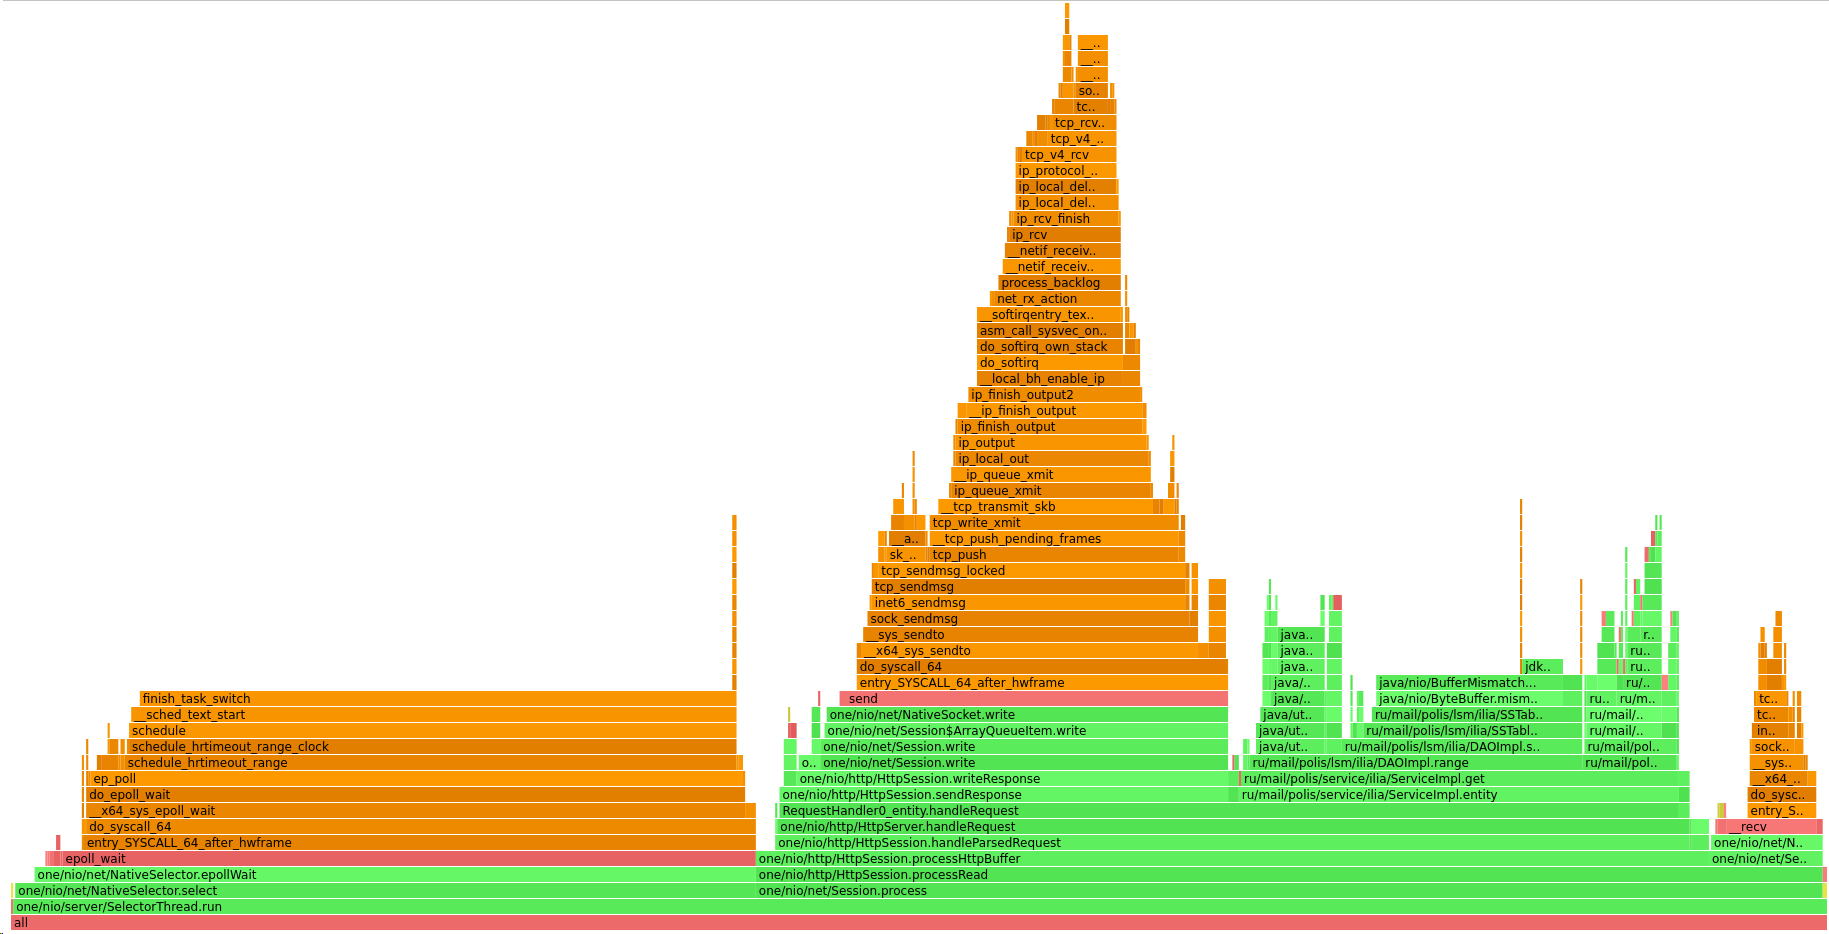
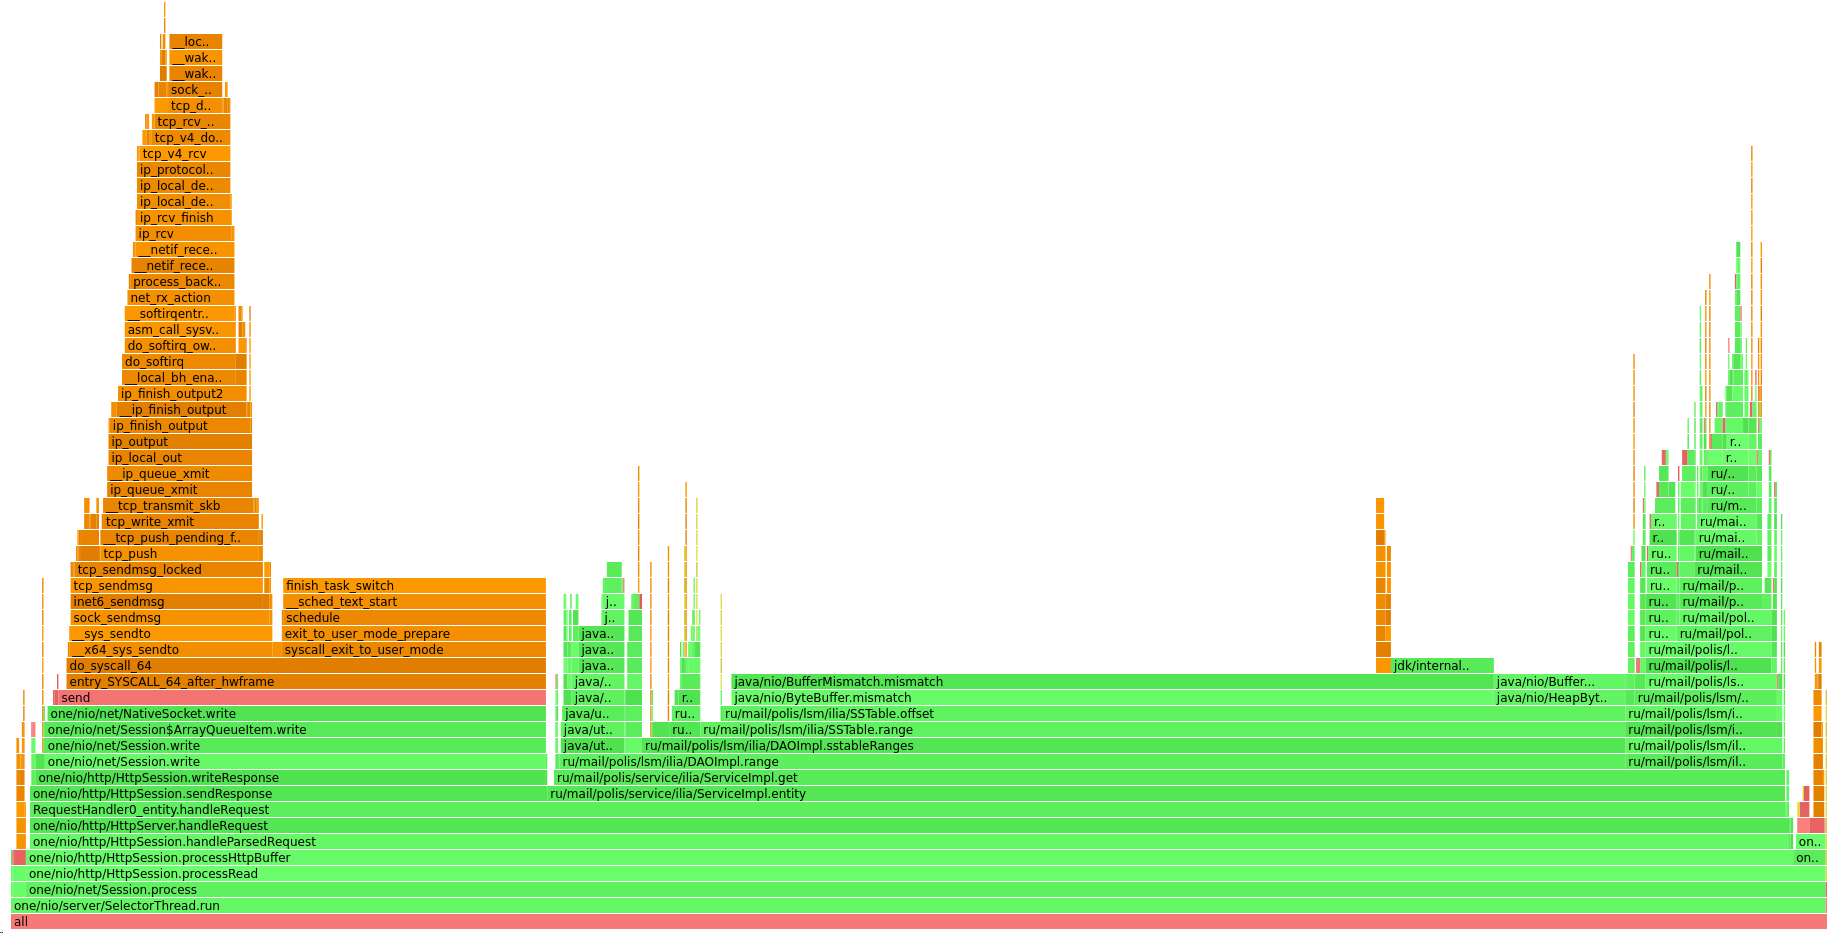
Report done and some fix

Changed region(s): [[0.0, 0.0, 1.0, 0.9946]]

diff --git a/src/main/java/ru/mail/polis/lsm/ilia/SSTable.java b/src/main/java/ru/mail/polis/lsm/ilia/SSTable.java
@@ -15,20 +15,12 @@ import java.nio.file.Files;
 import java.nio.file.Path;
 import java.nio.file.StandardCopyOption;
 import java.nio.file.StandardOpenOption;
-import java.util.ArrayList;
-import java.util.Iterator;
-import java.util.List;
-import java.util.NoSuchElementException;
-import java.util.Objects;
+import java.util.*;
 
 final class SSTable implements Closeable {
 
-    private static final Method CLEAN;
     static final String SSTABLE_FILE_PREFIX = "file_";
-
-    private final MappedByteBuffer mmap;
-    private final MappedByteBuffer idx;
-    private final Path fileName;
+    private static final Method CLEAN;
 
     static {
         try {
@@ -40,16 +32,16 @@ final class SSTable implements Closeable {
         }
     }
 
+    private final MappedByteBuffer mmap;
+    private final MappedByteBuffer idx;
+    private final Path fileName;
+
     private SSTable(Path file) throws IOException {
         Path indexPath = getIndexFile(file);
         fileName = file;
 
         mmap = open(file);
         idx = open(indexPath);
-    }
-
-    Path getPath() {
-        return fileName;
     }
 
     static int sizeOf(Record record) {
@@ -113,30 +105,6 @@ final class SSTable implements Closeable {
         return new SSTable(file);
     }
 
-    @Override
-    public void close() throws IOException {
-        IOException exception = null;
-        try {
-            free(mmap);
-        } catch (Throwable t) {
-            exception = new IOException(t);
-        }
-
-        try {
-            free(idx);
-        } catch (Throwable t) {
-            if (exception == null) {
-                exception = new IOException(t);
-            } else {
-                exception.addSuppressed(t);
-            }
-        }
-
-        if (exception != null) {
-            throw exception;
-        }
-    }
-
     private static void rename(Path indexFile, Path tmpIndexName) throws IOException {
         Files.deleteIfExists(indexFile);
         Files.move(tmpIndexName, indexFile, StandardCopyOption.ATOMIC_MOVE);
@@ -185,6 +153,69 @@ final class SSTable implements Closeable {
                 FileChannel channel = FileChannel.open(name, StandardOpenOption.READ)
         ) {
             return channel.map(FileChannel.MapMode.READ_ONLY, 0, channel.size());
+        }
+    }
+
+    private static Iterator<Record> range(ByteBuffer buffer, int fromOffset, int toOffset) {
+        buffer.position(fromOffset);
+
+        return new Iterator<>() {
+            @Override
+            public boolean hasNext() {
+                return buffer.position() < toOffset;
+            }
+
+            @Override
+            public Record next() {
+                if (!hasNext()) {
+                    throw new NoSuchElementException("Limit is reached");
+                }
+
+                int keySize = buffer.getInt();
+                ByteBuffer key = read(keySize);
+
+                int valueSize = buffer.getInt();
+                if (valueSize == -1) {
+                    return Record.tombstone(key);
+                }
+                ByteBuffer value = read(valueSize);
+
+                return Record.of(key, value);
+            }
+
+            private ByteBuffer read(int size) {
+                ByteBuffer result = buffer.slice().limit(size);
+                buffer.position(buffer.position() + size);
+                return result;
+            }
+        };
+    }
+
+    Path getPath() {
+        return fileName;
+    }
+
+    @Override
+    public void close() throws IOException {
+        IOException exception = null;
+        try {
+            free(mmap);
+        } catch (Throwable t) {
+            exception = new IOException(t);
+        }
+
+        try {
+            free(idx);
+        } catch (Throwable t) {
+            if (exception == null) {
+                exception = new IOException(t);
+            } else {
+                exception.addSuppressed(t);
+            }
+        }
+
+        if (exception != null) {
+            throw exception;
         }
     }
 
@@ -244,40 +275,5 @@ final class SSTable implements Closeable {
                 fromOffset == -1 ? maxSize : fromOffset,
                 toOffset == -1 ? maxSize : toOffset
         );
-    }
-
-    private static Iterator<Record> range(ByteBuffer buffer, int fromOffset, int toOffset) {
-        buffer.position(fromOffset);
-
-        return new Iterator<>() {
-            @Override
-            public boolean hasNext() {
-                return buffer.position() < toOffset;
-            }
-
-            @Override
-            public Record next() {
-                if (!hasNext()) {
-                    throw new NoSuchElementException("Limit is reached");
-                }
-
-                int keySize = buffer.getInt();
-                ByteBuffer key = read(keySize);
-
-                int valueSize = buffer.getInt();
-                if (valueSize == -1) {
-                    return Record.tombstone(key);
-                }
-                ByteBuffer value = read(valueSize);
-
-                return Record.of(key, value);
-            }
-
-            private ByteBuffer read(int size) {
-                ByteBuffer result = buffer.slice().limit(size);
-                buffer.position(buffer.position() + size);
-                return result;
-            }
-        };
     }
 }

diff --git a/src/main/java/ru/mail/polis/lsm/ilia/DAOImpl.java b/src/main/java/ru/mail/polis/lsm/ilia/DAOImpl.java
@@ -23,12 +23,9 @@ public class DAOImpl implements DAO {
     private static final String FILE_NAME_COMPACT = SSTable.SSTABLE_FILE_PREFIX + COMPACT;
     private static final String FILE_NAME_COMPACT_RESULT = SSTable.SSTABLE_FILE_PREFIX + "0";
     private static final String IDX = ".idx";
-
-    private SortedMap<ByteBuffer, Record> memoryStorage = new ConcurrentSkipListMap<>();
     private final ConcurrentLinkedDeque<SSTable> tables = new ConcurrentLinkedDeque<>();
-
     private final DAOConfig config;
-
+    private NavigableMap<ByteBuffer, Record> memoryStorage = new ConcurrentSkipListMap<>();
     private int nextSStableIndex;
     private int memorySize;
 
@@ -86,7 +83,7 @@ public class DAOImpl implements DAO {
                     }
                 }
 
-                memoryStorage.clear();
+                memoryStorage = new ConcurrentSkipListMap<>();
                 Files.move(
                         dir.resolve(FILE_NAME_COMPACT),
                         dir.resolve(FILE_NAME_COMPACT_RESULT),

diff --git a/report/REPORT.md b/report/REPORT.md
@@ -69,29 +69,69 @@ wrk2 -c1 -t1 -d1m -R20000 -L -s wrk/get.lua http://localhost:8080/
 
 ### Профилирование для PUT-запросов:
 
+#### CPU
+
 Для начала профилируем CPU для PUT-запросов. Для этого воспользуемся следующей командой:
+
 ```
 ./profiler.sh -d 20 -f cpu_put.html 33769
 ```
+
 Т.е. мы запускаем профилировку длительностью 20 секунд и результаты просим сохранить в файл cpu_put.html.
 
 ![Рис.5. Профилирование CPU для PUT-запросов](put_cpu_result.png)
 
-Как можно увидеть, 40.78% занимает NativeSelector и его метод select().
-Кроме этого 50.24% занимает обработка Http запроса (HttpServer.handleRequest).
+Как можно увидеть, 27.68% занимает NativeSelector и его метод select(). Кроме этого 61.08% занимает обработка Http
+запроса (HttpServer.handleRequest). При этом 12.07% уходит на отправку ответов (HttpSession.SendResponse), а 43.91%
+уходит на запись (DAOImpl.flush). Помимо этого 5% уходит на работу сборщика мусора
 
+#### MEM
+
+Теперь профилируем MEM для PUT-запросов. Для этого воспользуемся следующей командой:
+
+```
+/profiler.sh -d 20 -e alloc -f mem_put.html 33769
+```
+
+Смысл команды такой же как и при профилировки CPU, но тут необходимо указать -e alloc, т.к. мы хотим посмотреть MEM (по
+умолчанию всегда выводится CPU) и, соответственно, поменять название выходного файла
+
+![Рис.6. Профилирование MEM для PUT-запросов](put_mem_result.png)
+
+По полученным результатам можно сказать, что 52.92% уходят на обработку запроса(HttpSession.handleParsedRequest), 32.04%
+из которых уходят на запись в базу(ServiceImpl.put) и 11% на отправку ответа(HttpSession.sendResponse). Также 18.21%
+уходит на парсинг самого запроса(HttpSession.ParseRequest) и почти 21% на читку Utf8(Utf8.read)
 
 ### Профилирование для GET-запросов:
 
+#### CPU
+
 Для начала профилируем CPU для GET-запросов. Для этого воспользуемся следующей командой:
+
 ```
-./profiler.sh -d 20 -f cpu_put.html 33769
+./profiler.sh -d 20 -f cpu_get.html 33769
 ```
-Т.е. мы запускаем профилировку длительностью 20 секунд и результаты просим сохранить в файл cpu_put.html. 
 
-![Рис.6. Профилирование CPU для GET-запросов](get_cpu_result.png)
+Команда остается той же, что и для PUT-запросов с CPU
 
-Как можно увидеть, 40.78% занимает NativeSelector и его метод select().
-Кроме этого 50.24% занимает обработка Http запроса (HttpServer.handleRequest).
+![Рис.7. Профилирование CPU для GET-запросов](get_cpu_result.png)
 
+Как можно увидеть, 96.87% занимает обработка Http запроса (HttpServer.handleRequest), из которых 27.44 уходит на запись
+в сокет (NativeSocket.write), а 67.79% уходит на получение записи из базы (ServiceImpl.get).
+
+#### MEM
+
+Теперь профилируем MEM для GET-запросов. Для этого воспользуемся следующей командой:
+
+```
+/profiler.sh -d 20 -e alloc -f mem_get.html 33769
+```
+
+Команда остается той же, что и для PUT-запросов с MEM
+
+![Рис.8. Профилирование MEM для GET-запросов](get_mem_result.png)
+
+Как можно увидеть, 96.56% занимает обработка Http запроса (HttpServer.handleRequest), из которых 80.46% уходит на
+взаимодействие с базой, а именно получение записей (DAOImpl.range). Около 2% уходит на отправку ответа(
+HttpSession.sendResponse)
  
